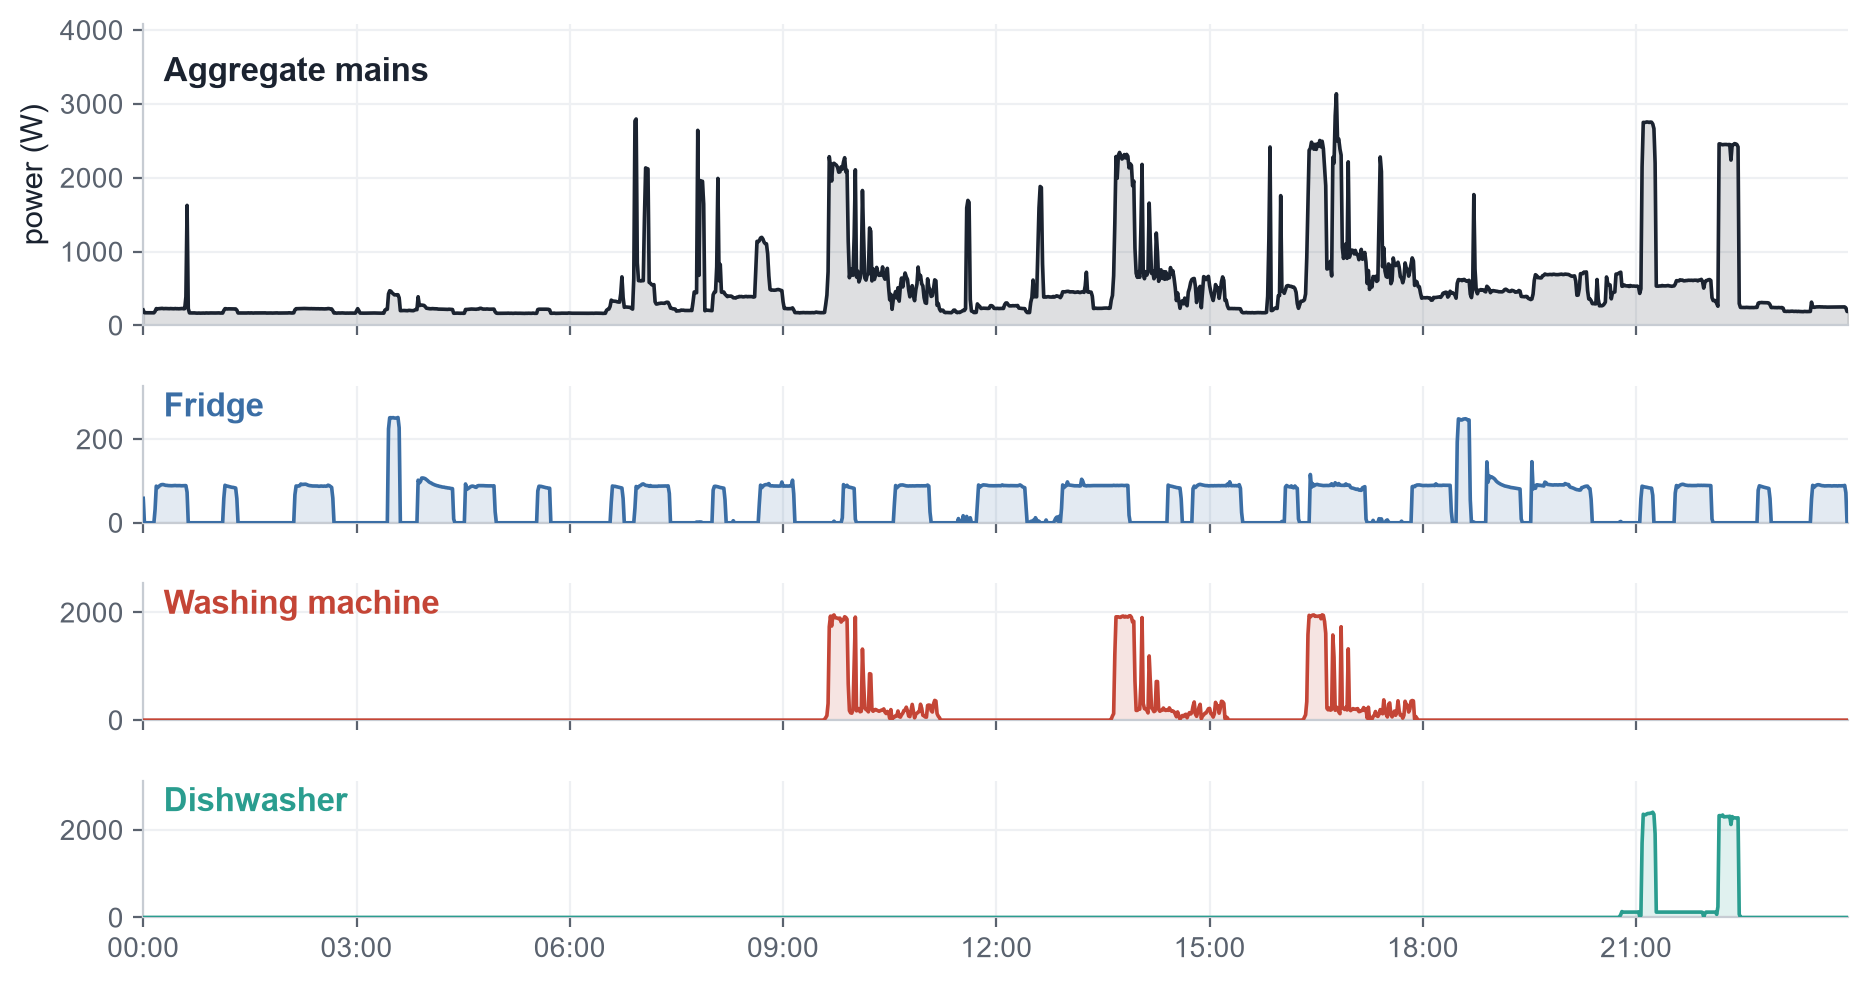
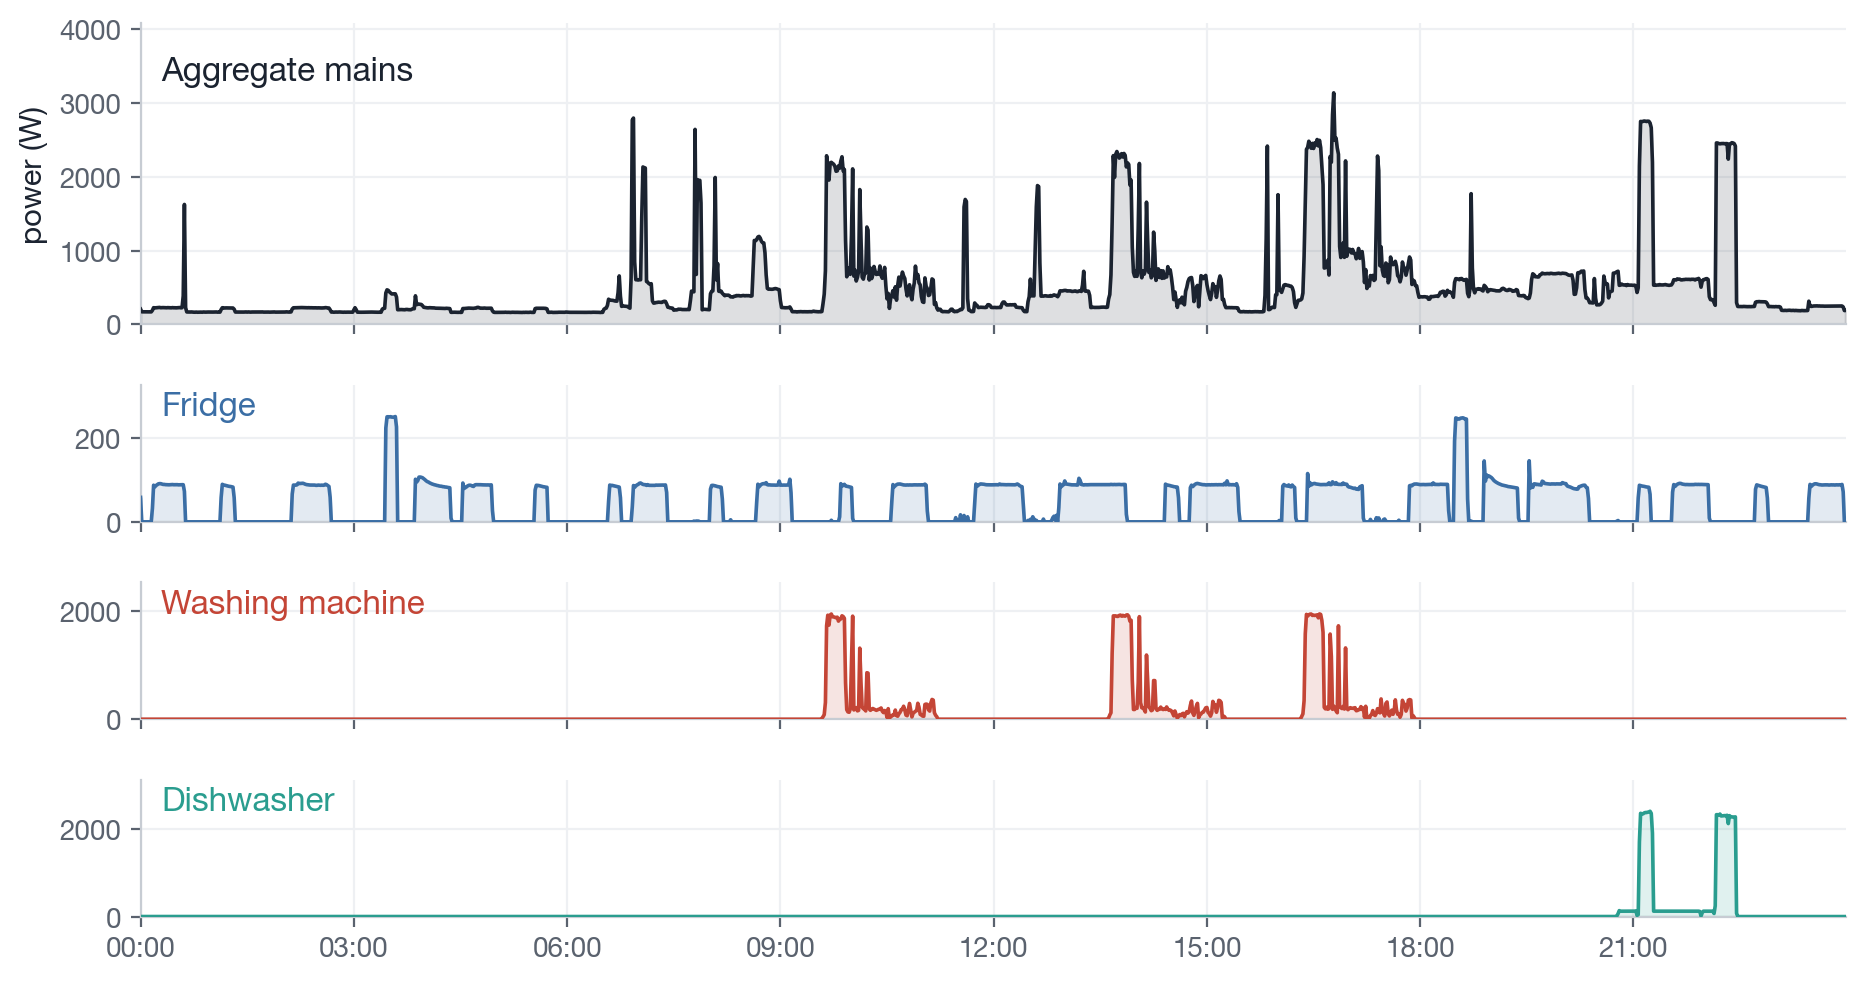
slides: stage slides 2 & 3, redesign Seq2Point/Transformer I/O diagrams
Staging (spotlight builds, per the talk script):
- Slide 2 ("one meter → appliance-level"): 2-step build — the aggregate
  signal is shown first (appliance panels greyed via new decomposition_agg.png),
  then the full disaggregation with all appliance panels and bullets revealed.
- Slide 3 ("appliance signatures"): 3-step build — spotlight walks
  fridge → washer → dishwasher, dimming the panels not yet discussed.
  Reuses the same .seen/.on pattern as slide 4 plus a generic .fade utility.

Diagram fixes (slide 4 "Deep learning" / "Transformers" panels):
- Seq2Point: bold windowed input waveform ("L samples") and a meaningful
  single centre-point output instead of a near-empty box.
- Transformer: input/output tokens now carry signal bars (aggregate in,
  appliance activation out) instead of blank rectangles.

figures.py now emits decomposition_agg.png alongside decomposition.png;
diagrams.py updates seq2point()/transformer(). Deck HTML+PDF rebuilt.

diff --git a/scripts/diagrams.py b/scripts/diagrams.py
@@ -57,30 +57,48 @@ def arr(a, b, y):
 def seq2point():
     s=f'<svg width="780" height="300" viewBox="0 0 780 300" font-family="Work Sans,sans-serif"><defs>{ARROW}{SYMBOLS}</defs>'
     s+=f'<text x="390" y="22" text-anchor="middle" font-size="14" fill="{MUT}">aggregate <tspan fill="{INK}" font-weight="700">window</tspan> (L) &#8594; one <tspan fill="{INK}" font-weight="700">appliance</tspan> at the centre</text>'
-    s+=use("meter",14,118,30,INK)
-    s+=f'<rect x="54" y="100" width="86" height="86" rx="5" fill="#f6f7f9" stroke="{LINE}"/>'
-    s+='<polyline points="60,168 70,166 80,128 90,168 100,166 110,118 120,166 134,160" fill="none" stroke="'+INK+'" stroke-width="1.5"/>'
-    s+=f'<text x="97" y="202" text-anchor="middle" font-size="11.5" fill="{MUT}">L &#215; 1</text>'
-    for (bx,ch),bw,bh in zip([(175,"30"),(255,"40"),(340,"50")],[26,24,22],[96,84,72]):
+    # --- input: a window of the aggregate signal ---
+    s+=use("meter",6,130,26,INK)
+    ix,iy,iw,ih=44,98,100,92
+    s+=f'<rect x="{ix}" y="{iy}" width="{iw}" height="{ih}" rx="6" fill="#f6f7f9" stroke="{LINE}"/>'
+    wf="52,176 63,172 74,142 85,176 95,156 105,124 116,170 127,166 136,168"
+    s+=f'<polygon points="52,184 {wf} 136,184" fill="{NAVY}" opacity="0.07"/>'
+    s+=f'<polyline points="{wf}" fill="none" stroke="{INK}" stroke-width="2.2" stroke-linejoin="round" stroke-linecap="round"/>'
+    s+=f'<line x1="{ix+iw/2}" y1="103" x2="{ix+iw/2}" y2="184" stroke="{GRY}" stroke-width="1" stroke-dasharray="3 3" opacity="0.7"/>'
+    s+=f'<text x="{ix+iw/2}" y="208" text-anchor="middle" font-size="11.5" fill="{MUT}">L samples</text>'
+    # --- conv stack ---
+    for (bx,ch),bw,bh in zip([(178,"30"),(258,"40"),(340,"50")],[26,24,22],[96,84,72]):
         by=100+(96-bh)//2+10
         s+=block3d(bx,by,bw,bh,12,"url(#gC)",NAVY)
         s+=f'<text x="{bx+bw/2+6}" y="{by+bh+18}" text-anchor="middle" font-size="11" fill="{NAVY}">conv</text><text x="{bx+bw/2+6}" y="{by+bh+31}" text-anchor="middle" font-size="11" fill="{MUT}">{ch}</text>'
     s+=block3d(420,108,12,84,10,"url(#gD)",NAVY)+f'<text x="430" y="212" text-anchor="middle" font-size="11" fill="{MUT}">flatten</text>'
     s+=f'<rect x="470" y="120" width="48" height="60" rx="5" fill="url(#gD)" stroke="{NAVY}" stroke-width="1.1"/><text x="494" y="155" text-anchor="middle" font-size="11.5" fill="{NAVY}">dense</text>'
-    s+=f'<rect x="560" y="100" width="180" height="86" rx="5" fill="#f6f7f9" stroke="{LINE}"/><line x1="572" y1="170" x2="730" y2="170" stroke="{LINE}"/>'
-    s+=f'<circle cx="650" cy="126" r="6.5" fill="{ACC}"/><line x1="650" y1="132" x2="650" y2="170" stroke="{ACC}" stroke-width="1.2" stroke-dasharray="3 3"/>'
-    s+=use("fridge",486,86,26,BLUE)+f'<text x="650" y="204" text-anchor="middle" font-size="11.5" fill="{BLUE}">&#375;(centre)</text>'
-    for a,b in [(144,170),(372,416),(518,556)]: s+=arr(a,b,150)
+    # --- output: a single appliance value at the window centre ---
+    ox,oy,ow,oh=560,98,172,92
+    s+=f'<rect x="{ox}" y="{oy}" width="{ow}" height="{oh}" rx="6" fill="#f6f7f9" stroke="{LINE}"/>'
+    s+=use("fridge",ox+9,oy+9,21,BLUE)
+    owf="572,174 588,172 604,150 620,176 636,160 645,128 660,172 686,170 720,170"
+    s+=f'<polyline points="{owf}" fill="none" stroke="{GRY}" stroke-width="1.4" stroke-linejoin="round" stroke-linecap="round" opacity="0.5"/>'
+    s+=f'<line x1="645" y1="106" x2="645" y2="126" stroke="{ACC}" stroke-width="1.1" stroke-dasharray="3 3"/>'
+    s+=f'<rect x="642" y="128" width="6" height="54" rx="2.5" fill="{ACC}"/>'
+    s+=f'<circle cx="645" cy="128" r="6.5" fill="{ACC}"/>'
+    s+=f'<text x="{ox+ow/2}" y="208" text-anchor="middle" font-size="11.5" fill="{BLUE}">&#375; · power at centre</text>'
+    for a,b in [(146,174),(376,416),(520,556)]: s+=arr(a,b,150)
     return s+"</svg>"
 
 # ---- Transformer encoder -----------------------------------------------------
 def transformer():
     s=f'<svg width="780" height="330" viewBox="0 0 780 330" font-family="Work Sans,sans-serif"><defs>{ARROW}{SYMBOLS}</defs>'
     s+=f'<text x="390" y="20" text-anchor="middle" font-size="14" fill="{MUT}">aggregate <tspan fill="{INK}" font-weight="700">sequence</tspan> &#8594; appliance <tspan fill="{INK}" font-weight="700">sequence</tspan></text>'
-    s+=use("meter",22,150,28,INK)
-    for i in range(6): s+=f'<rect x="{60+i*16}" y="152" width="12" height="24" rx="2.5" fill="#e7ecf3" stroke="{NAVY}" stroke-width="1.1"/>'
-    s+=f'<text x="108" y="196" text-anchor="middle" font-size="11" fill="{MUT}">tokens</text>'
-    s+=f'<circle cx="178" cy="164" r="9" fill="#fff" stroke="{NAVY}" stroke-width="1.3"/><text x="178" y="168" text-anchor="middle" font-size="13" fill="{NAVY}">+</text><text x="178" y="190" text-anchor="middle" font-size="10" fill="{MUT}">pos.</text>'
+    # --- input: aggregate signal sampled into a token sequence ---
+    s+=use("meter",20,150,28,INK)
+    in_h=[11,17,14,22,15,19]
+    for i,h in enumerate(in_h):
+        tx=58+i*16
+        s+=f'<rect x="{tx}" y="150" width="13" height="30" rx="3" fill="#eef2f8" stroke="{NAVY}" stroke-width="1.1"/>'
+        s+=f'<rect x="{tx+3.5}" y="{179-h}" width="6" height="{h}" rx="1.5" fill="{BLUE}"/>'
+    s+=f'<text x="108" y="198" text-anchor="middle" font-size="11" fill="{MUT}">aggregate</text>'
+    s+=f'<circle cx="178" cy="165" r="9" fill="#fff" stroke="{NAVY}" stroke-width="1.3"/><text x="178" y="169" text-anchor="middle" font-size="13" fill="{NAVY}">+</text><text x="178" y="192" text-anchor="middle" font-size="10" fill="{MUT}">pos.</text>'
     bx,by,bw,bh=230,58,330,210
     s+=f'<rect x="{bx}" y="{by}" width="{bw}" height="{bh}" rx="10" fill="none" stroke="{NAVY}" stroke-width="1.4" stroke-dasharray="5 4"/><text x="{bx+bw-8}" y="{by+18}" text-anchor="end" font-size="11.5" fill="{MUT}">encoder &#215; N</text>'
     def lyr(y,h,label,fill,tcol):
@@ -92,10 +110,15 @@ def transformer():
     s+=f'<path d="M{bx+22},150 C{bx+8},150 {bx+8},99 {bx+28},99" fill="none" stroke="{ACC}" stroke-width="1.4" marker-end="url(#ah)"/>'
     s+=f'<path d="M{bx+22},241 C{bx+8},241 {bx+8},197 {bx+28},197" fill="none" stroke="{ACC}" stroke-width="1.4" marker-end="url(#ah)"/>'
     s+=f'<text x="{bx+6}" y="175" font-size="10" fill="{ACC}" transform="rotate(-90 {bx+6} 175)">residual</text>'
+    # --- output: predicted appliance power sequence (an activation event) ---
     s+=use("fridge",600,150,26,BLUE)
-    for i in range(6): s+=f'<rect x="{636+i*16}" y="152" width="12" height="24" rx="2.5" fill="#fbeeec" stroke="{ACC}" stroke-width="1.1"/>'
-    s+=f'<text x="684" y="196" text-anchor="middle" font-size="11" fill="{BLUE}">appliance</text>'
-    s+=f'<line x1="190" y1="164" x2="226" y2="164" stroke="{GRY}" stroke-width="1.6" marker-end="url(#ah)"/><line x1="564" y1="164" x2="598" y2="164" stroke="{GRY}" stroke-width="1.6" marker-end="url(#ah)"/>'
+    out_h=[4,5,8,24,21,6]
+    for i,h in enumerate(out_h):
+        tx=636+i*16
+        s+=f'<rect x="{tx}" y="150" width="13" height="30" rx="3" fill="#fbeeec" stroke="{ACC}" stroke-width="1.1"/>'
+        s+=f'<rect x="{tx+3.5}" y="{179-h}" width="6" height="{h}" rx="1.5" fill="{ACC}"/>'
+    s+=f'<text x="684" y="198" text-anchor="middle" font-size="11" fill="{BLUE}">appliance</text>'
+    s+=f'<line x1="190" y1="165" x2="226" y2="165" stroke="{GRY}" stroke-width="1.6" marker-end="url(#ah)"/><line x1="564" y1="165" x2="598" y2="165" stroke="{GRY}" stroke-width="1.6" marker-end="url(#ah)"/>'
     return s+"</svg>"
 
 # ---- FHMM (graphical model) --------------------------------------------------

diff --git a/scripts/figures.py b/scripts/figures.py
@@ -4,7 +4,8 @@ Generate the deck's data figures from REAL UK-DALE house 1 (streamed from CEDA,
 no full download) plus the Hart edge-detection and efficiency plots.
 
 Outputs (to slides/figs/):
-    decomposition.png      mains -> fridge / washer / dishwasher / kettle
+    decomposition.png      mains -> fridge / washer / dishwasher
+    decomposition_agg.png  same frame, appliances greyed (slide-2 build step 1)
     sig_fridge2.png        per-appliance signature (periodic)
     sig_washer2.png        per-appliance signature (multi-stage)
     sig_dishwasher2.png    per-appliance signature (high-power bursts)
@@ -76,26 +77,36 @@ def pick_day(df):
              g["dishwasher"].apply(lambda s: (s > 50).sum()))[ok]
     return str(score.sort_values(ascending=False).index[0])
 
-def decomposition(df, day):
-    d = df.loc[day]
-    series = [("mains","Aggregate mains",INK,"meter"),("fridge","Fridge",BLUE,"fridge"),
-              ("washer","Washing machine",ACC,"washer"),("dishwasher","Dishwasher",TEAL,"dishwasher")]
+def _decomp_fig(d, series, fname, dim_appliances=False):
+    """Render the 4-panel disaggregation figure. With dim_appliances=True the
+    three appliance panels are greyed (used as the 'aggregate-first' build step
+    on slide 2); the layout is identical so the two frames swap without jumping."""
+    FADE = "#c3c8d0"
     fig, axes = plt.subplots(4, 1, figsize=(11, 5.8), dpi=200, sharex=True,
                              gridspec_kw={"height_ratios": [2.2,1,1,1], "hspace": 0.34})
-    for ax,(c,name,col,ic) in zip(axes, series):
-        ax.fill_between(d.index, d[c], color=col, alpha=0.14, zorder=2)
-        ax.plot(d.index, d[c], color=col, lw=1.3, zorder=3)
+    for i,(ax,(c,name,col,ic)) in enumerate(zip(axes, series)):
+        faded = dim_appliances and i > 0
+        pcol = FADE if faded else col
+        ax.fill_between(d.index, d[c], color=pcol, alpha=0.07 if faded else 0.14, zorder=2)
+        ax.plot(d.index, d[c], color=pcol, lw=1.0 if faded else 1.3, zorder=3)
         img = _icon(ic)
         if img is not None:
-            ax.add_artist(AnnotationBbox(OffsetImage(img, zoom=0.05), (0.012, 0.84),
-                          xycoords="axes fraction", frameon=False, box_alignment=(0, 0.5)))
+            ax.add_artist(AnnotationBbox(OffsetImage(img, zoom=0.05, alpha=0.35 if faded else 1.0),
+                          (0.012, 0.84), xycoords="axes fraction", frameon=False, box_alignment=(0, 0.5)))
         ax.text(0.042 if img is not None else 0.012, 0.84, name, transform=ax.transAxes,
-                color=col, fontsize=12, fontweight="bold", va="center")
+                color=pcol, fontsize=12, fontweight="bold", va="center", alpha=0.55 if faded else 1.0)
         _style(ax); ax.set_ylim(0, max(d[c].max()*1.3, 30))
     axes[0].set_ylabel("power (W)", color=INK, fontsize=11)
     axes[-1].xaxis.set_major_formatter(mdates.DateFormatter("%H:%M"))
     axes[-1].xaxis.set_major_locator(mdates.HourLocator(interval=3))
-    fig.savefig(os.path.join(FIGS, "decomposition.png"), bbox_inches="tight", facecolor="white"); plt.close(fig)
+    fig.savefig(os.path.join(FIGS, fname), bbox_inches="tight", facecolor="white"); plt.close(fig)
+
+def decomposition(df, day):
+    d = df.loc[day]
+    series = [("mains","Aggregate mains",INK,"meter"),("fridge","Fridge",BLUE,"fridge"),
+              ("washer","Washing machine",ACC,"washer"),("dishwasher","Dishwasher",TEAL,"dishwasher")]
+    _decomp_fig(d, series, "decomposition_agg.png", dim_appliances=True)   # build step 1: aggregate only
+    _decomp_fig(d, series, "decomposition.png",     dim_appliances=False)  # build step 2: full disaggregation
 
 def signature(df, col, color, icon, fname, win, desc, headroom=1.7, annotate=None):
     d = df.loc[win[0]:win[1], col]

diff --git a/slides/nilmbench2026.md b/slides/nilmbench2026.md
@@ -188,6 +188,15 @@ section.title h1{
 .sig-panel ul{ margin:0; }
 .sig-panel li{ font-size:14.5px; margin:5px 0; padding-left:18px; line-height:1.3; }
 .sig-panel li::before{ width:5px; height:5px; top:7px; border-width:1.5px; }
+/* slide-3 spotlight build: dim future panels, lift the active one */
+.sig-panel{ opacity:.24; filter:grayscale(.5);
+  transition:opacity .35s ease, filter .35s ease, box-shadow .35s ease, transform .35s ease, border-top-width .35s ease; }
+.sig-panel.seen{ opacity:1; filter:none; }
+.sig-panel.on{ opacity:1; filter:none; border-top-width:4px; transform:translateY(-3px);
+  box-shadow:0 12px 28px -16px rgba(27,35,48,.45);
+  background:linear-gradient(180deg, rgba(27,35,48,.045), rgba(27,35,48,0) 58%); border-radius:0 0 8px 8px; }
+/* generic reveal utility: not-yet-spoken content fades back */
+.fade{ opacity:.16; transition:opacity .4s ease; }
 
 /* ---- evolution timeline ---- */
 section.evo-slide{ padding-bottom:48px; }
@@ -276,6 +285,33 @@ section.demo{ justify-content:center; }
 
 ---
 
+<!-- Slide 2 is a 2-step build: aggregate signal first, then the full
+     disaggregation. Edit both copies to keep them in sync. -->
+<div class="kick">Motivation</div>
+
+## NILM turns one meter into appliance-level estimates
+
+<div class="slide-body">
+
+<div class="vc decomp-layout">
+<div class="fig-col">
+<img class="fig-lg" src="figs/decomposition_agg.png" alt="UK-DALE disaggregation">
+</div>
+<div class="txt-col">
+<ul>
+<li><strong>One</strong> aggregate smart-meter signal — all that is measured at deployment</li>
+<li class="fade">Disaggregates into appliance-level power — no per-appliance sensors</li>
+<li class="fade">Feedback can cut household use by up to 15% (Froehlich &amp; Patel 2011; Darby 2006)</li>
+<li class="fade">Signatures vary across homes and devices</li>
+</ul>
+<p class="decomp-aside">Real data · UK-DALE house 1<br>time (x) vs power in W (y)</p>
+</div>
+</div>
+
+</div>
+
+---
+
 <div class="kick">Motivation</div>
 
 ## NILM turns one meter into appliance-level estimates
@@ -288,9 +324,9 @@ section.demo{ justify-content:center; }
 </div>
 <div class="txt-col">
 <ul>
+<li><strong>One</strong> aggregate smart-meter signal — all that is measured at deployment</li>
+<li>Disaggregates into appliance-level power — no per-appliance sensors</li>
 <li>Feedback can cut household use by up to 15% (Froehlich &amp; Patel 2011; Darby 2006)</li>
-<li>One aggregate signal decomposes into appliance-level power</li>
-<li>Energy feedback without per-appliance sensors</li>
 <li>Signatures vary across homes and devices</li>
 </ul>
 <p class="decomp-aside">Real data · UK-DALE house 1<br>time (x) vs power in W (y)</p>
@@ -301,6 +337,8 @@ section.demo{ justify-content:center; }
 
 ---
 
+<!-- Slide 3 is a 3-step build: spotlight fridge -> washer -> dishwasher.
+     Edit all three copies to keep them in sync. -->
 <div class="kick">Motivation</div>
 
 ## Appliance signatures differ by load type
@@ -308,7 +346,7 @@ section.demo{ justify-content:center; }
 <div class="slide-body">
 
 <div class="sig-grid">
-<div class="sig-panel">
+<div class="sig-panel on">
 <img src="figs/sig_fridge2.png" alt="">
 <div class="sig-label">Fridge · periodic</div>
 <ul>
@@ -327,6 +365,86 @@ section.demo{ justify-content:center; }
 </ul>
 </div>
 <div class="sig-panel">
+<img src="figs/sig_dishwasher2.png" alt="">
+<div class="sig-label">Dishwasher · sparse / bursty</div>
+<ul>
+<li>High-power heating bursts</li>
+<li>Long idle gaps</li>
+<li><strong>MAE-deceptive</strong> when mostly off</li>
+</ul>
+</div>
+</div>
+
+</div>
+
+---
+
+<div class="kick">Motivation</div>
+
+## Appliance signatures differ by load type
+
+<div class="slide-body">
+
+<div class="sig-grid">
+<div class="sig-panel seen">
+<img src="figs/sig_fridge2.png" alt="">
+<div class="sig-label">Fridge · periodic</div>
+<ul>
+<li>Compressor cycles ~80–120 W</li>
+<li><strong>Defrost spikes</strong> on longer horizon</li>
+<li>Always-on, easy to detect</li>
+</ul>
+</div>
+<div class="sig-panel on">
+<img src="figs/sig_washer2.png" alt="">
+<div class="sig-label">Washing machine · multi-stage</div>
+<ul>
+<li><strong>Heat → agitate → spin</strong></li>
+<li>Long, variable duration</li>
+<li>Many sub-states</li>
+</ul>
+</div>
+<div class="sig-panel">
+<img src="figs/sig_dishwasher2.png" alt="">
+<div class="sig-label">Dishwasher · sparse / bursty</div>
+<ul>
+<li>High-power heating bursts</li>
+<li>Long idle gaps</li>
+<li><strong>MAE-deceptive</strong> when mostly off</li>
+</ul>
+</div>
+</div>
+
+</div>
+
+---
+
+<div class="kick">Motivation</div>
+
+## Appliance signatures differ by load type
+
+<div class="slide-body">
+
+<div class="sig-grid">
+<div class="sig-panel seen">
+<img src="figs/sig_fridge2.png" alt="">
+<div class="sig-label">Fridge · periodic</div>
+<ul>
+<li>Compressor cycles ~80–120 W</li>
+<li><strong>Defrost spikes</strong> on longer horizon</li>
+<li>Always-on, easy to detect</li>
+</ul>
+</div>
+<div class="sig-panel seen">
+<img src="figs/sig_washer2.png" alt="">
+<div class="sig-label">Washing machine · multi-stage</div>
+<ul>
+<li><strong>Heat → agitate → spin</strong></li>
+<li>Long, variable duration</li>
+<li>Many sub-states</li>
+</ul>
+</div>
+<div class="sig-panel on">
 <img src="figs/sig_dishwasher2.png" alt="">
 <div class="sig-label">Dishwasher · sparse / bursty</div>
 <ul>